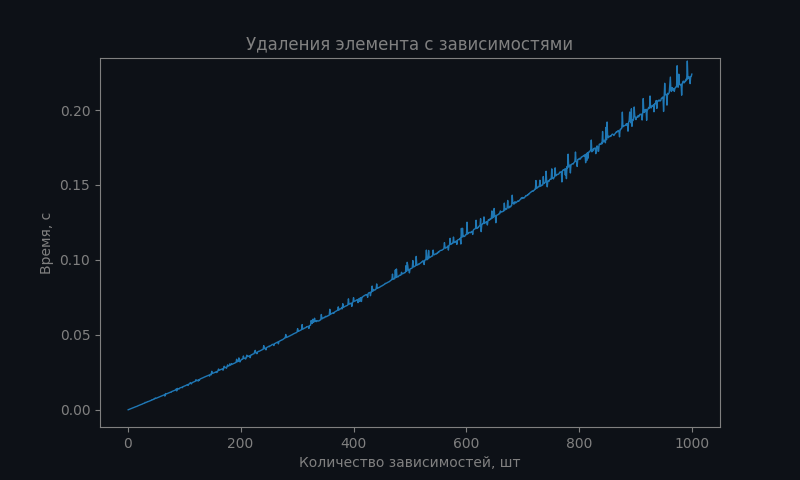
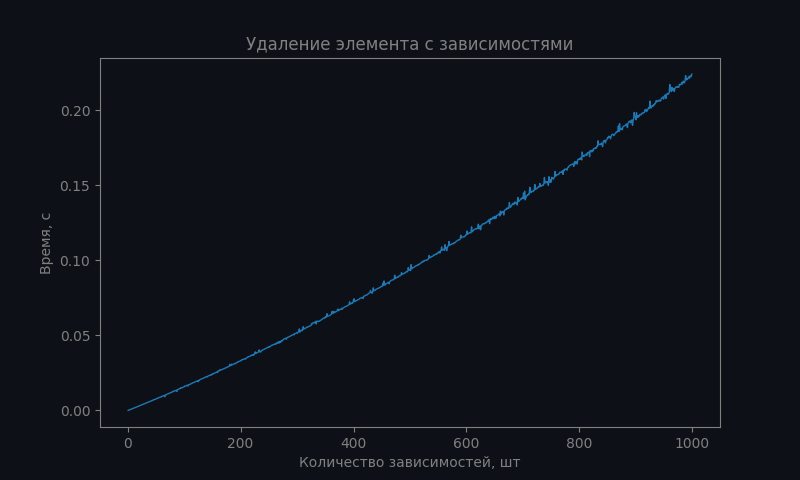
fixed misprint in graphs title

diff --git a/test/graphic.py b/test/graphic.py
@@ -22,8 +22,8 @@ tit = [
     'Выборка элемента по id',
     'Выборка элементов по условию',
     'Поиск элементов по родителю (по отношению)',
-    'Удаления элемента без зависимостей',
-    'Удаления элемента с зависимостями',
+    'Удаление элемента без зависимостей',
+    'Удаление элемента с зависимостями',
     'Размер файла от количества элементов',
 ]
 ymax = [0.0005, 0.00100, 0.0003, 1.3000, 1.1000, 0.00007, 0.2350, 3703964 / 1024]

diff --git a/README.md b/README.md
@@ -11,9 +11,9 @@
 ![img_4.png](docs/img_4.png)
 ### Поиск элементов по родителю (по отношению)
 ![img_5.png](docs/img_5.png)
-### Удаления элемента без зависимостей
+### Удаление элемента без зависмостей
 ![img_6.png](docs/img_6.png)
-### Удаления элемента с зависимостями
+### Удаление элемента с зависимостями
 ![img_7.png](docs/img_7.png)
 ### Размер файла от количества элементов
 ![img_8.png](docs/img_8.png)
